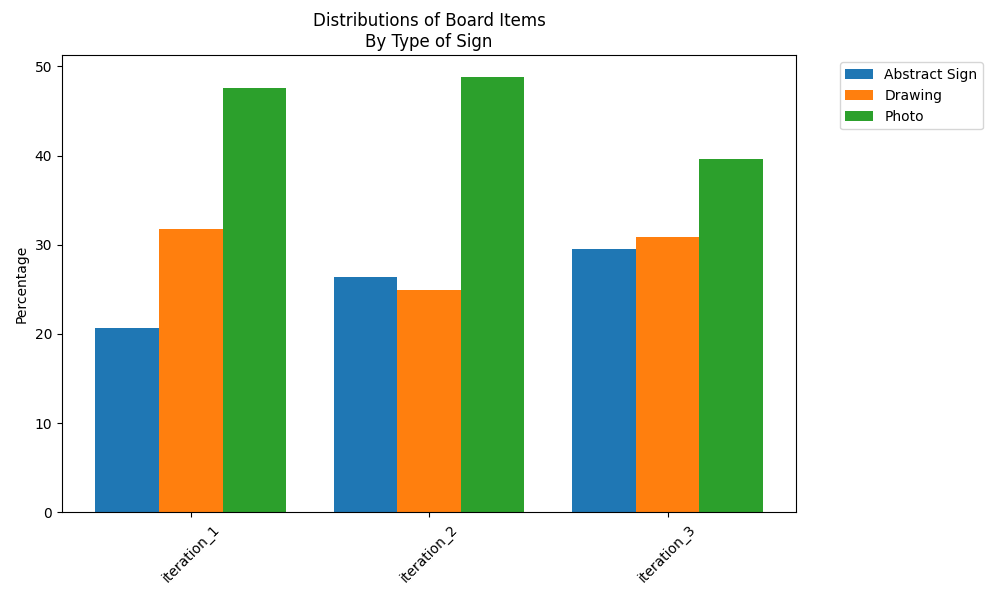
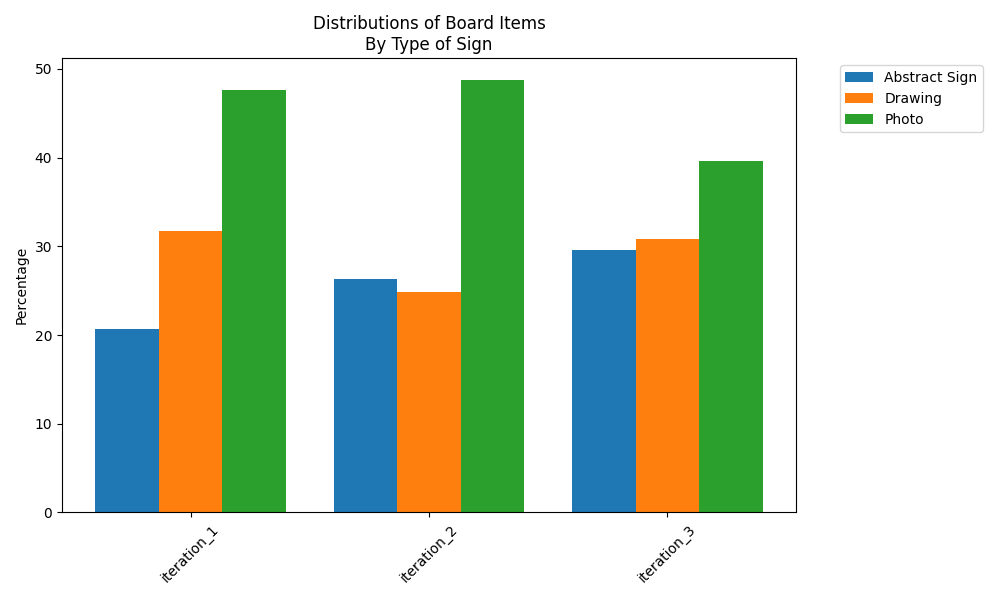
Update axes labels

diff --git a/bar_charts.py b/bar_charts.py
@@ -70,12 +70,16 @@ def make_barchart(df: pd.DataFrame, col: str, title:str):
     ax.legend(bbox_to_anchor=(1.05, 1), loc='upper left')
     return fig, ax
 
+#%%
+
 for group_col in group_cols:
     selections_title = f"Distributions of Selections\nBy {group_col}"
     selections_name = f"selections_{group_col}"
     fig, ax = make_barchart(df=all_selections, 
                             col=group_col,
                             title=selections_title)
+    if group_col == "Category":
+        ax.set_yticks([0,5,10,15,20,25,30,35,40,45,50])
     plt.tight_layout()
     fig.savefig(os.path.join(OUTPUT_DIR,selections_name))
     plt.close(fig)
@@ -92,6 +96,17 @@ for group_col in group_cols:
 
 
 
+
+
+# %%
+
+group_col = "Category"
+board_title = f"Distributions of Board Items\nBy {group_col}"
+board_name = f"board_{group_col}"
+fig, ax = make_barchart(df=all_boards, 
+                        col=group_col,
+                        title=board_title)
+ax.set_yticks([0,10,20,30])
 
 
 # %%
